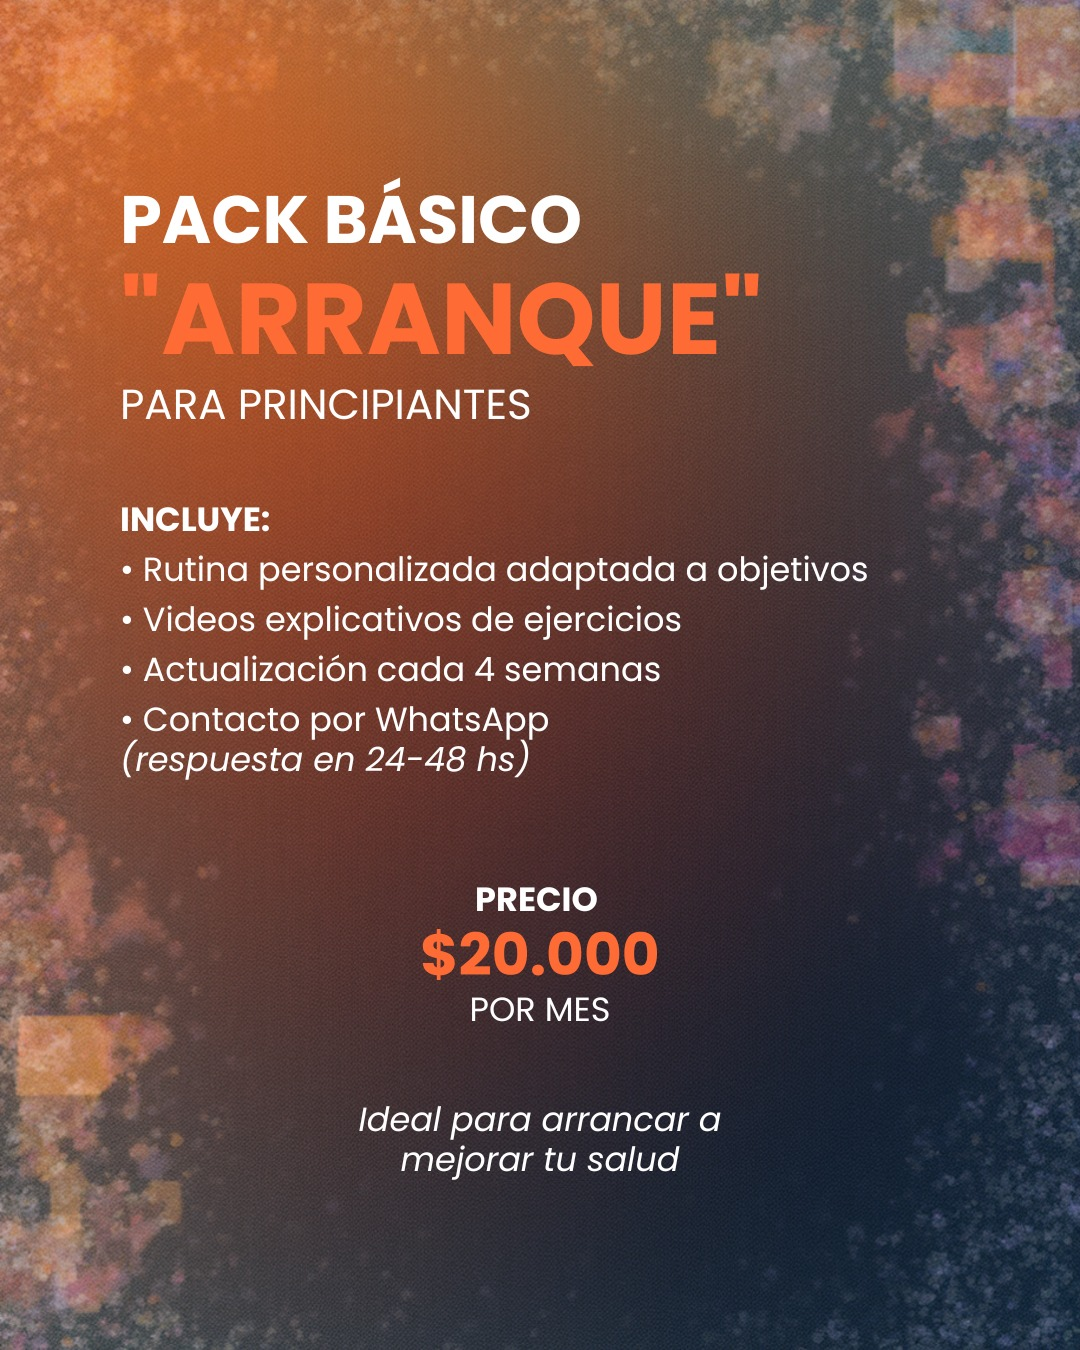
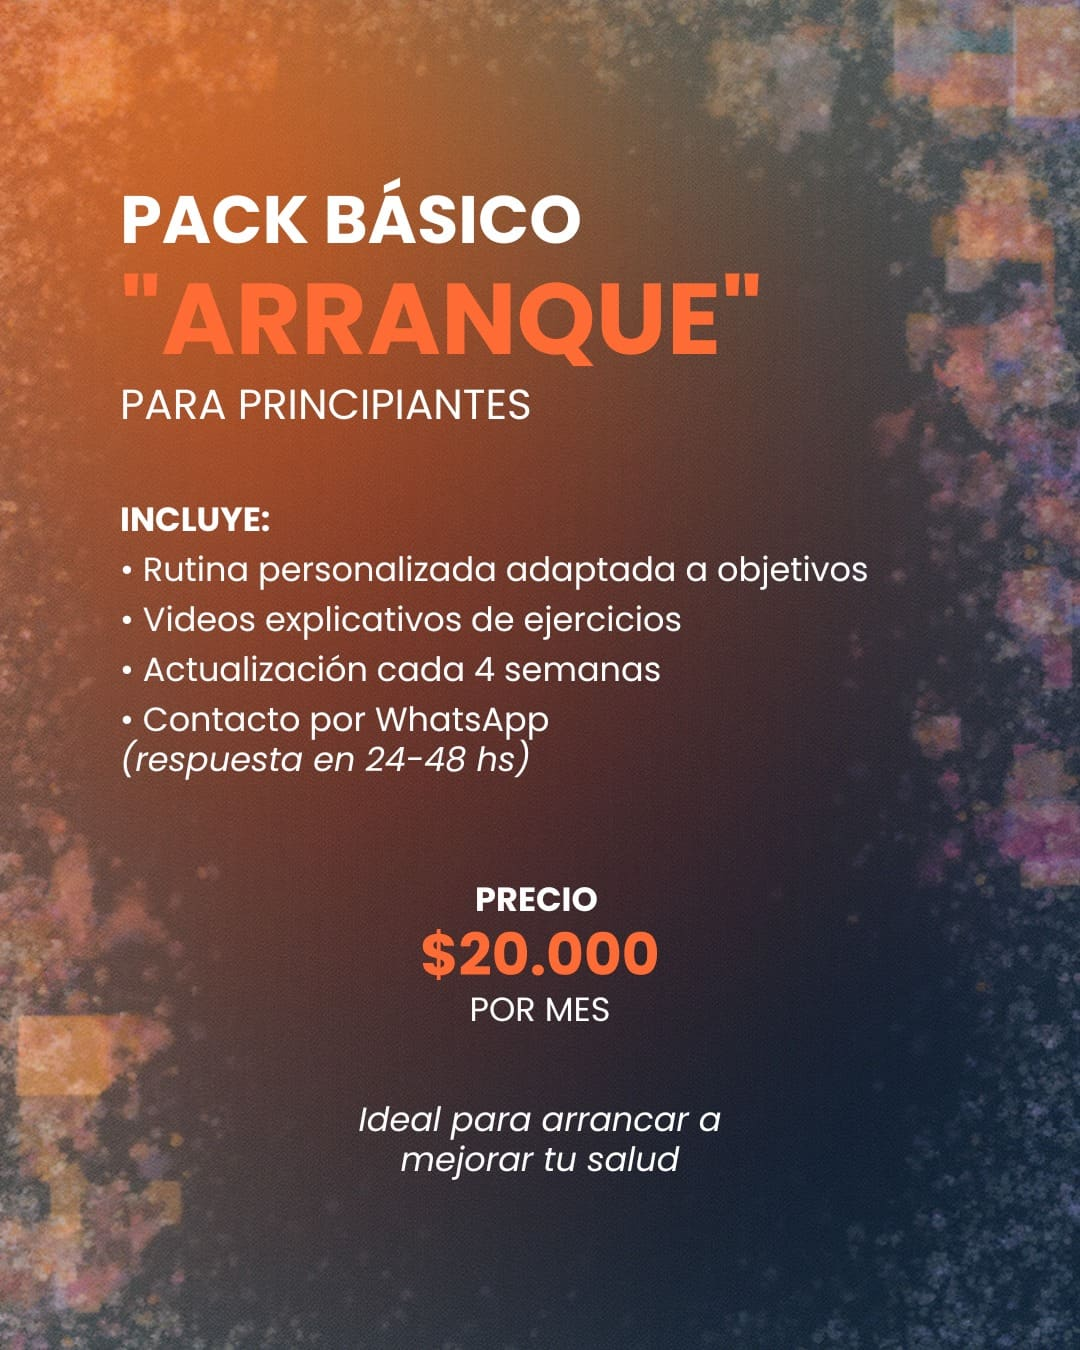
chau

diff --git a/index.html b/index.html
@@ -1,17 +1,73 @@
 <!DOCTYPE html>
-<html lang="es">
+<html lang="es-AR">
 <head>
   <meta charset="UTF-8">
   <meta name="viewport" content="width=device-width, initial-scale=1.0">
-  <title>Emanuel Vázquez | Personal Trainer</title>
-  <meta name="description" content="Emanuel Vázquez, Personal Trainer. Rutinas personalizadas, seguimiento y acompañamiento para que desbloquees tu potencial.">
+  <title>Emanuel Vázquez | Personal Trainer en Córdoba, Argentina</title>
+  <meta name="description" content="Emanuel Vázquez, Personal Trainer certificado en Córdoba. Rutinas de entrenamiento personalizadas, seguimiento semanal y acompañamiento para bajar de peso, ganar masa muscular o mejorar tu rendimiento.">
+  <meta name="keywords" content="personal trainer Córdoba, entrenador personal, rutinas de entrenamiento personalizadas, entrenamiento online, Emanuel Vázquez">
+  <meta name="robots" content="index, follow">
+  <meta name="author" content="Emanuel Vázquez">
+  <meta name="theme-color" content="#08335E">
+  <!-- Reemplazá esta URL por el dominio definitivo del sitio cuando esté publicado -->
+  <link rel="canonical" href="https://www.evpersonaltrainer.com.ar/">
+
   <link rel="icon" href="media/logo.jpeg" type="image/jpeg">
+  <link rel="apple-touch-icon" href="media/logo.jpeg">
+
+  <!-- Open Graph / redes sociales -->
+  <meta property="og:type" content="website">
+  <meta property="og:locale" content="es_AR">
+  <meta property="og:site_name" content="Emanuel Vázquez Personal Trainer">
+  <meta property="og:title" content="Emanuel Vázquez | Personal Trainer en Córdoba, Argentina">
+  <meta property="og:description" content="Rutinas personalizadas, seguimiento y acompañamiento para que desbloquees tu potencial. Conocé mis planes de entrenamiento.">
+  <meta property="og:image" content="https://www.evpersonaltrainer.com.ar/media/og-image.jpg">
+  <meta property="og:image:width" content="1200">
+  <meta property="og:image:height" content="630">
+  <meta property="og:url" content="https://www.evpersonaltrainer.com.ar/">
+  <meta name="twitter:card" content="summary_large_image">
+  <meta name="twitter:title" content="Emanuel Vázquez | Personal Trainer en Córdoba, Argentina">
+  <meta name="twitter:description" content="Rutinas personalizadas, seguimiento y acompañamiento para que desbloquees tu potencial.">
+  <meta name="twitter:image" content="https://www.evpersonaltrainer.com.ar/media/og-image.jpg">
 
   <link rel="preconnect" href="https://fonts.googleapis.com">
   <link rel="preconnect" href="https://fonts.gstatic.com" crossorigin>
+  <link rel="preload" as="image" href="media/logo.webp" fetchpriority="high">
   <link href="https://fonts.googleapis.com/css2?family=Archivo:wdth,wght@62..125,400..900&family=Inter:wght@400;500;600&display=swap" rel="stylesheet">
 
   <link rel="stylesheet" href="css/styles.css">
+
+  <script type="application/ld+json">
+  {
+    "@context": "https://schema.org",
+    "@type": "ProfessionalService",
+    "name": "Emanuel Vázquez Personal Trainer",
+    "image": "https://www.evpersonaltrainer.com.ar/media/og-image.jpg",
+    "url": "https://www.evpersonaltrainer.com.ar/",
+    "telephone": "+5493472432823",
+    "priceRange": "$$",
+    "address": {
+      "@type": "PostalAddress",
+      "addressLocality": "Córdoba",
+      "addressRegion": "Córdoba",
+      "addressCountry": "AR"
+    },
+    "areaServed": "Córdoba, Argentina",
+    "sameAs": ["https://www.instagram.com/ev_personaltrainer/"],
+    "founder": {
+      "@type": "Person",
+      "name": "Emanuel Vázquez",
+      "jobTitle": "Personal Trainer",
+      "alumniOf": "Instituto Superior de Educación Física Bell",
+      "knowsAbout": ["Diseño de rutinas de entrenamiento", "Anatomía y biomecánica", "Motivación deportiva", "Nutrición aplicada al entrenamiento"]
+    },
+    "makesOffer": [
+      { "@type": "Offer", "name": "Pack Básico Arranque", "price": "20000", "priceCurrency": "ARS" },
+      { "@type": "Offer", "name": "Pack Intermedio Progreso", "price": "40000", "priceCurrency": "ARS" },
+      { "@type": "Offer", "name": "Pack Premium Transformación", "price": "80000", "priceCurrency": "ARS" }
+    ]
+  }
+  </script>
 </head>
 <body>
 
@@ -24,7 +80,10 @@
       </nav>
 
       <a href="#inicio" class="header-logo" aria-label="Emanuel Vázquez - Inicio">
-        <img src="media/logo.jpeg" alt="Logo Emanuel Vázquez Personal Trainer" width="96" height="96">
+        <picture>
+          <source srcset="media/logo.webp" type="image/webp">
+          <img src="media/logo.jpeg" alt="Logo Emanuel Vázquez Personal Trainer" width="96" height="96" fetchpriority="high" decoding="async">
+        </picture>
       </a>
 
       <nav class="nav nav-right" aria-label="Navegación secundaria">
@@ -89,7 +148,8 @@
           <p class="lead">
             Soy Instructor en Personal Trainer egresado del Instituto Superior de Educación Física Bell.
             Mi trabajo es acompañarte con un plan hecho a tu medida: evaluamos de dónde partís,
-            definimos a dónde querés llegar y ajustamos el camino semana a semana.
+            definimos a dónde querés llegar y ajustamos el camino semana a semana, combinando
+            conocimientos de anatomía y biomecánica con una comunicación clara y motivadora.
           </p>
 
           <ul class="services">
@@ -141,7 +201,16 @@
               <div><dt>Modalidad</dt><dd>Combinada</dd></div>
               <div><dt>Evaluación final</dt><dd>Aprobada · 2025</dd></div>
             </dl>
-            
+
+            <p class="cred-sub">Fortalezas</p>
+            <ul class="chips">
+              <li>Diseño de rutinas</li>
+              <li>Anatomía y biomecánica</li>
+              <li>Motivación y acompañamiento</li>
+              <li>Comunicación clara</li>
+              <li>Adaptabilidad y trabajo en equipo</li>
+              <li>Aprendizaje rápido</li>
+            </ul>
           </div>
 
           <div class="cred-card cred-secondary">
@@ -170,8 +239,11 @@
         <div class="plans-grid">
           <article class="plan-card">
             <button class="plan-img" data-lightbox="media/plan1.jpeg" aria-label="Ver Pack Básico Arranque en grande">
-              <img src="media/plan1.jpeg" loading="lazy" width="1080" height="1350"
-                   alt="Pack Básico Arranque, para principiantes. Incluye rutina personalizada adaptada a objetivos, videos explicativos de ejercicios, actualización cada 4 semanas y contacto por WhatsApp con respuesta en 24 a 48 horas. Precio: 20.000 pesos por mes.">
+              <picture>
+                <source srcset="media/plan1.webp" type="image/webp">
+                <img src="media/plan1.jpeg" loading="lazy" decoding="async" width="1080" height="1350"
+                     alt="Pack Básico Arranque, para principiantes. Incluye rutina personalizada adaptada a objetivos, videos explicativos de ejercicios, actualización cada 4 semanas y contacto por WhatsApp con respuesta en 24 a 48 horas. Precio: 20.000 pesos por mes.">
+              </picture>
             </button>
             <div class="plan-body">
               <p class="plan-level">Pack Básico</p>
@@ -185,8 +257,11 @@
           <article class="plan-card plan-featured">
             <span class="plan-badge">Más vendido</span>
             <button class="plan-img" data-lightbox="media/plan2.jpeg" aria-label="Ver Pack Intermedio Progreso en grande">
-              <img src="media/plan2.jpeg" loading="lazy" width="1080" height="1350"
-                   alt="Pack Intermedio Progreso, para quienes buscan resultados reales. Incluye rutina personalizada, actualización cada 3 semanas, seguimiento semanal de peso, rendimiento y fotos, WhatsApp con respuesta prioritaria en 24 horas, corrección técnica por video y guía básica de alimentación. No incluye nutrición clínica. Precio: 40.000 pesos por mes.">
+              <picture>
+                <source srcset="media/plan2.webp" type="image/webp">
+                <img src="media/plan2.jpeg" loading="lazy" decoding="async" width="1080" height="1350"
+                     alt="Pack Intermedio Progreso, para quienes buscan resultados reales. Incluye rutina personalizada, actualización cada 3 semanas, seguimiento semanal de peso, rendimiento y fotos, WhatsApp con respuesta prioritaria en 24 horas, corrección técnica por video y guía básica de alimentación. No incluye nutrición clínica. Precio: 40.000 pesos por mes.">
+              </picture>
             </button>
             <div class="plan-body">
               <p class="plan-level">Pack Intermedio</p>
@@ -199,8 +274,11 @@
 
           <article class="plan-card">
             <button class="plan-img" data-lightbox="media/plan3.jpeg" aria-label="Ver Pack Premium Transformación en grande">
-              <img src="media/plan3.jpeg" loading="lazy" width="1080" height="1350"
-                   alt="Pack Premium Transformación: aquí se venden resultados, no rutinas. Rutina personalizada avanzada, ajustes semanales, seguimiento semanal y monitoreo de tu progreso, y estrategia nutricional personalizada. Precio: 80.000 pesos por mes.">
+              <picture>
+                <source srcset="media/plan3.webp" type="image/webp">
+                <img src="media/plan3.jpeg" loading="lazy" decoding="async" width="1080" height="1350"
+                     alt="Pack Premium Transformación: aquí se venden resultados, no rutinas. Rutina personalizada avanzada, ajustes semanales, seguimiento semanal y monitoreo de tu progreso, y estrategia nutricional personalizada. Precio: 80.000 pesos por mes.">
+              </picture>
             </button>
             <div class="plan-body">
               <p class="plan-level">Pack Premium</p>
@@ -328,7 +406,10 @@
   <footer class="site-footer">
     <div class="container footer-inner">
       <a href="#inicio" class="footer-brand">
-        <img src="media/logo.jpeg" alt="" width="64" height="64">
+        <picture>
+          <source srcset="media/logo.webp" type="image/webp">
+          <img src="media/logo.jpeg" alt="" width="64" height="64" loading="lazy" decoding="async">
+        </picture>
         <span>
           <strong>Emanuel Vázquez</strong>
           <small>Personal Trainer</small>
